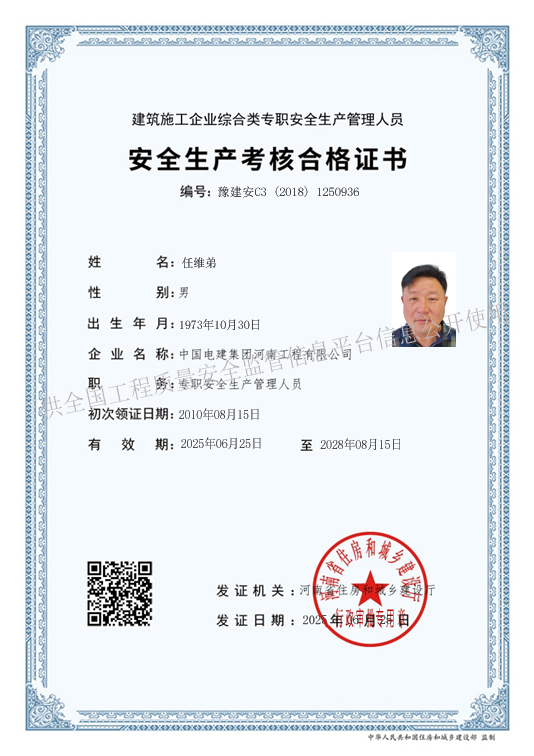
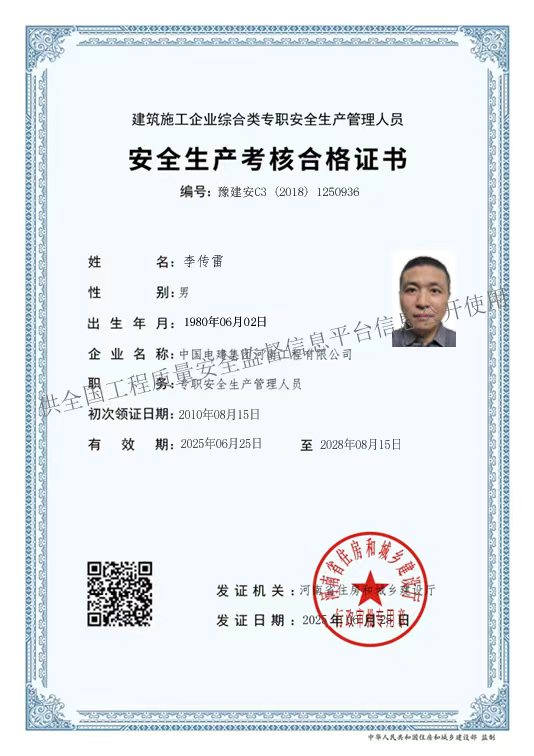
更换人员

diff --git a/index.html b/index.html
@@ -61,11 +61,11 @@
             <tr><th>人员详情</th><th></th></tr>
           </thead>
           <tbody>
-            <tr><td><b>任维弟</b><br>证书编号：豫建安C3(2018)1250936<br>岗位：综合类专职安全生产管理人员</td></tr>
+            <tr><td><b>李传雷</b><br>证书编号：豫建安C3(2018)1250936<br>岗位：综合类专职安全生产管理人员</td></tr>
             <tr><td>身份证件类型<br>公民身份证号码</td></tr>
-            <tr><td>身份证件号码<br>370*************32</td></tr>
+            <tr><td>身份证件号码<br>370*************19</td></tr>
             <tr><td>性别<br>男</td></tr>
-            <tr><td>出生日期<br>1973-10-30</td></tr>
+            <tr><td>出生日期<br>1980-06-02</td></tr>
             <tr><td>文化程度<br>其他</td></tr>
             <tr><td>所在企业名称：<br>中国电建集团河南工程有限公司</td></tr>
             <tr><td>所在企业统一社会信用代码<br>9141000016995167XA</td></tr>
